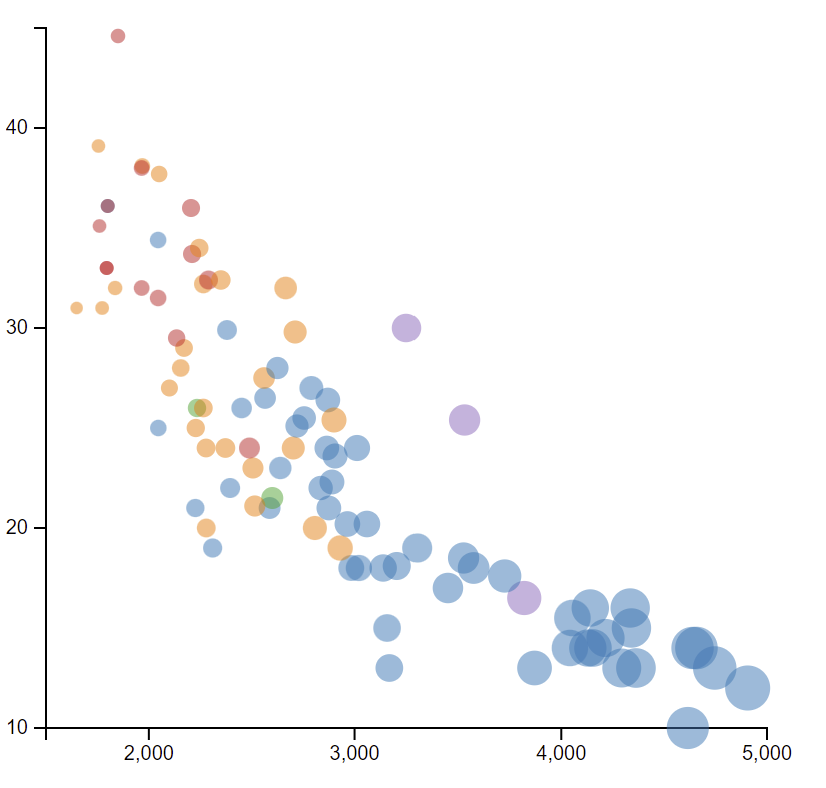
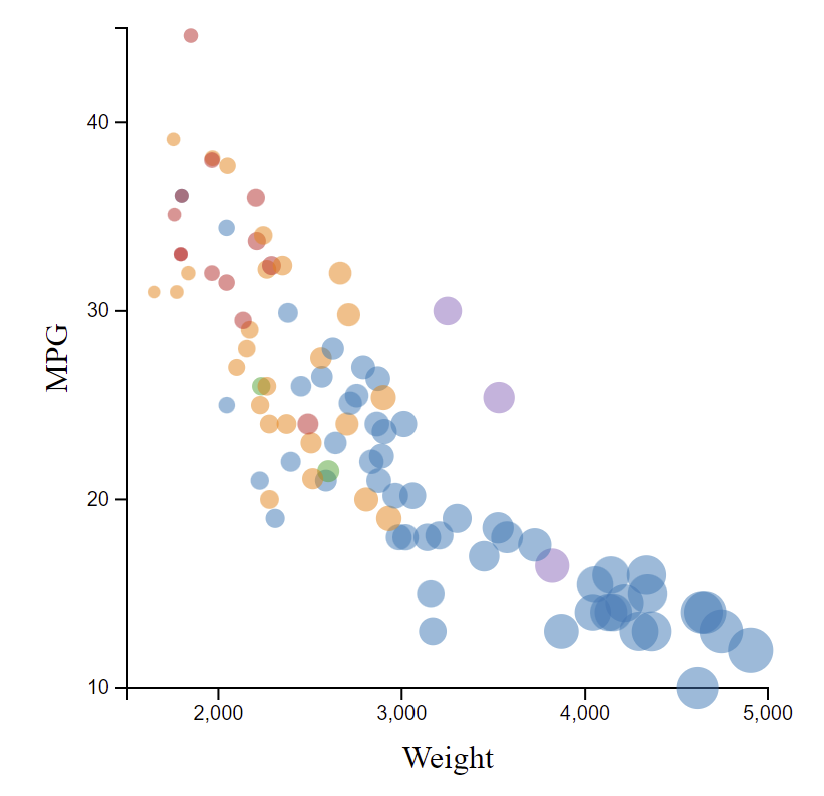
Fix axis labels

diff --git a/d3/index.html b/d3/index.html
@@ -6,7 +6,7 @@
 
 <script>
 
-    const margin = {top: 10, right: 20, bottom: 40, left: 20};
+    const margin = {top: 10, right: 20, bottom: 60, left: 60};
     const width = 400 - margin.left - margin.right;
     const height = 400 - margin.top - margin.bottom;
 
@@ -42,5 +42,20 @@
             .attr("fill", d => colorScale(d.Manufacturer))
             .attr("opacity" , _ => 0.5)
             .attr("r", d => d.Weight / 400 -1)
+
+        // Axis labels based on https://stackoverflow.com/a/11194968/5987669
+        svg.append("text")
+            .attr("class", "x label")
+            .attr("text-anchor", "middle")
+            .attr("x", width / 2)
+            .attr("y", height + margin.top + margin.bottom / 2)
+            .text("Weight");
+        svg.append("text")
+            .attr("class", "y label")
+            .attr("text-anchor", "middle")
+            .attr("y", -margin.left / 2)
+            .attr("x", -height / 2)
+            .attr("transform", "rotate(-90)")
+            .text("MPG");
     });
 </script>
